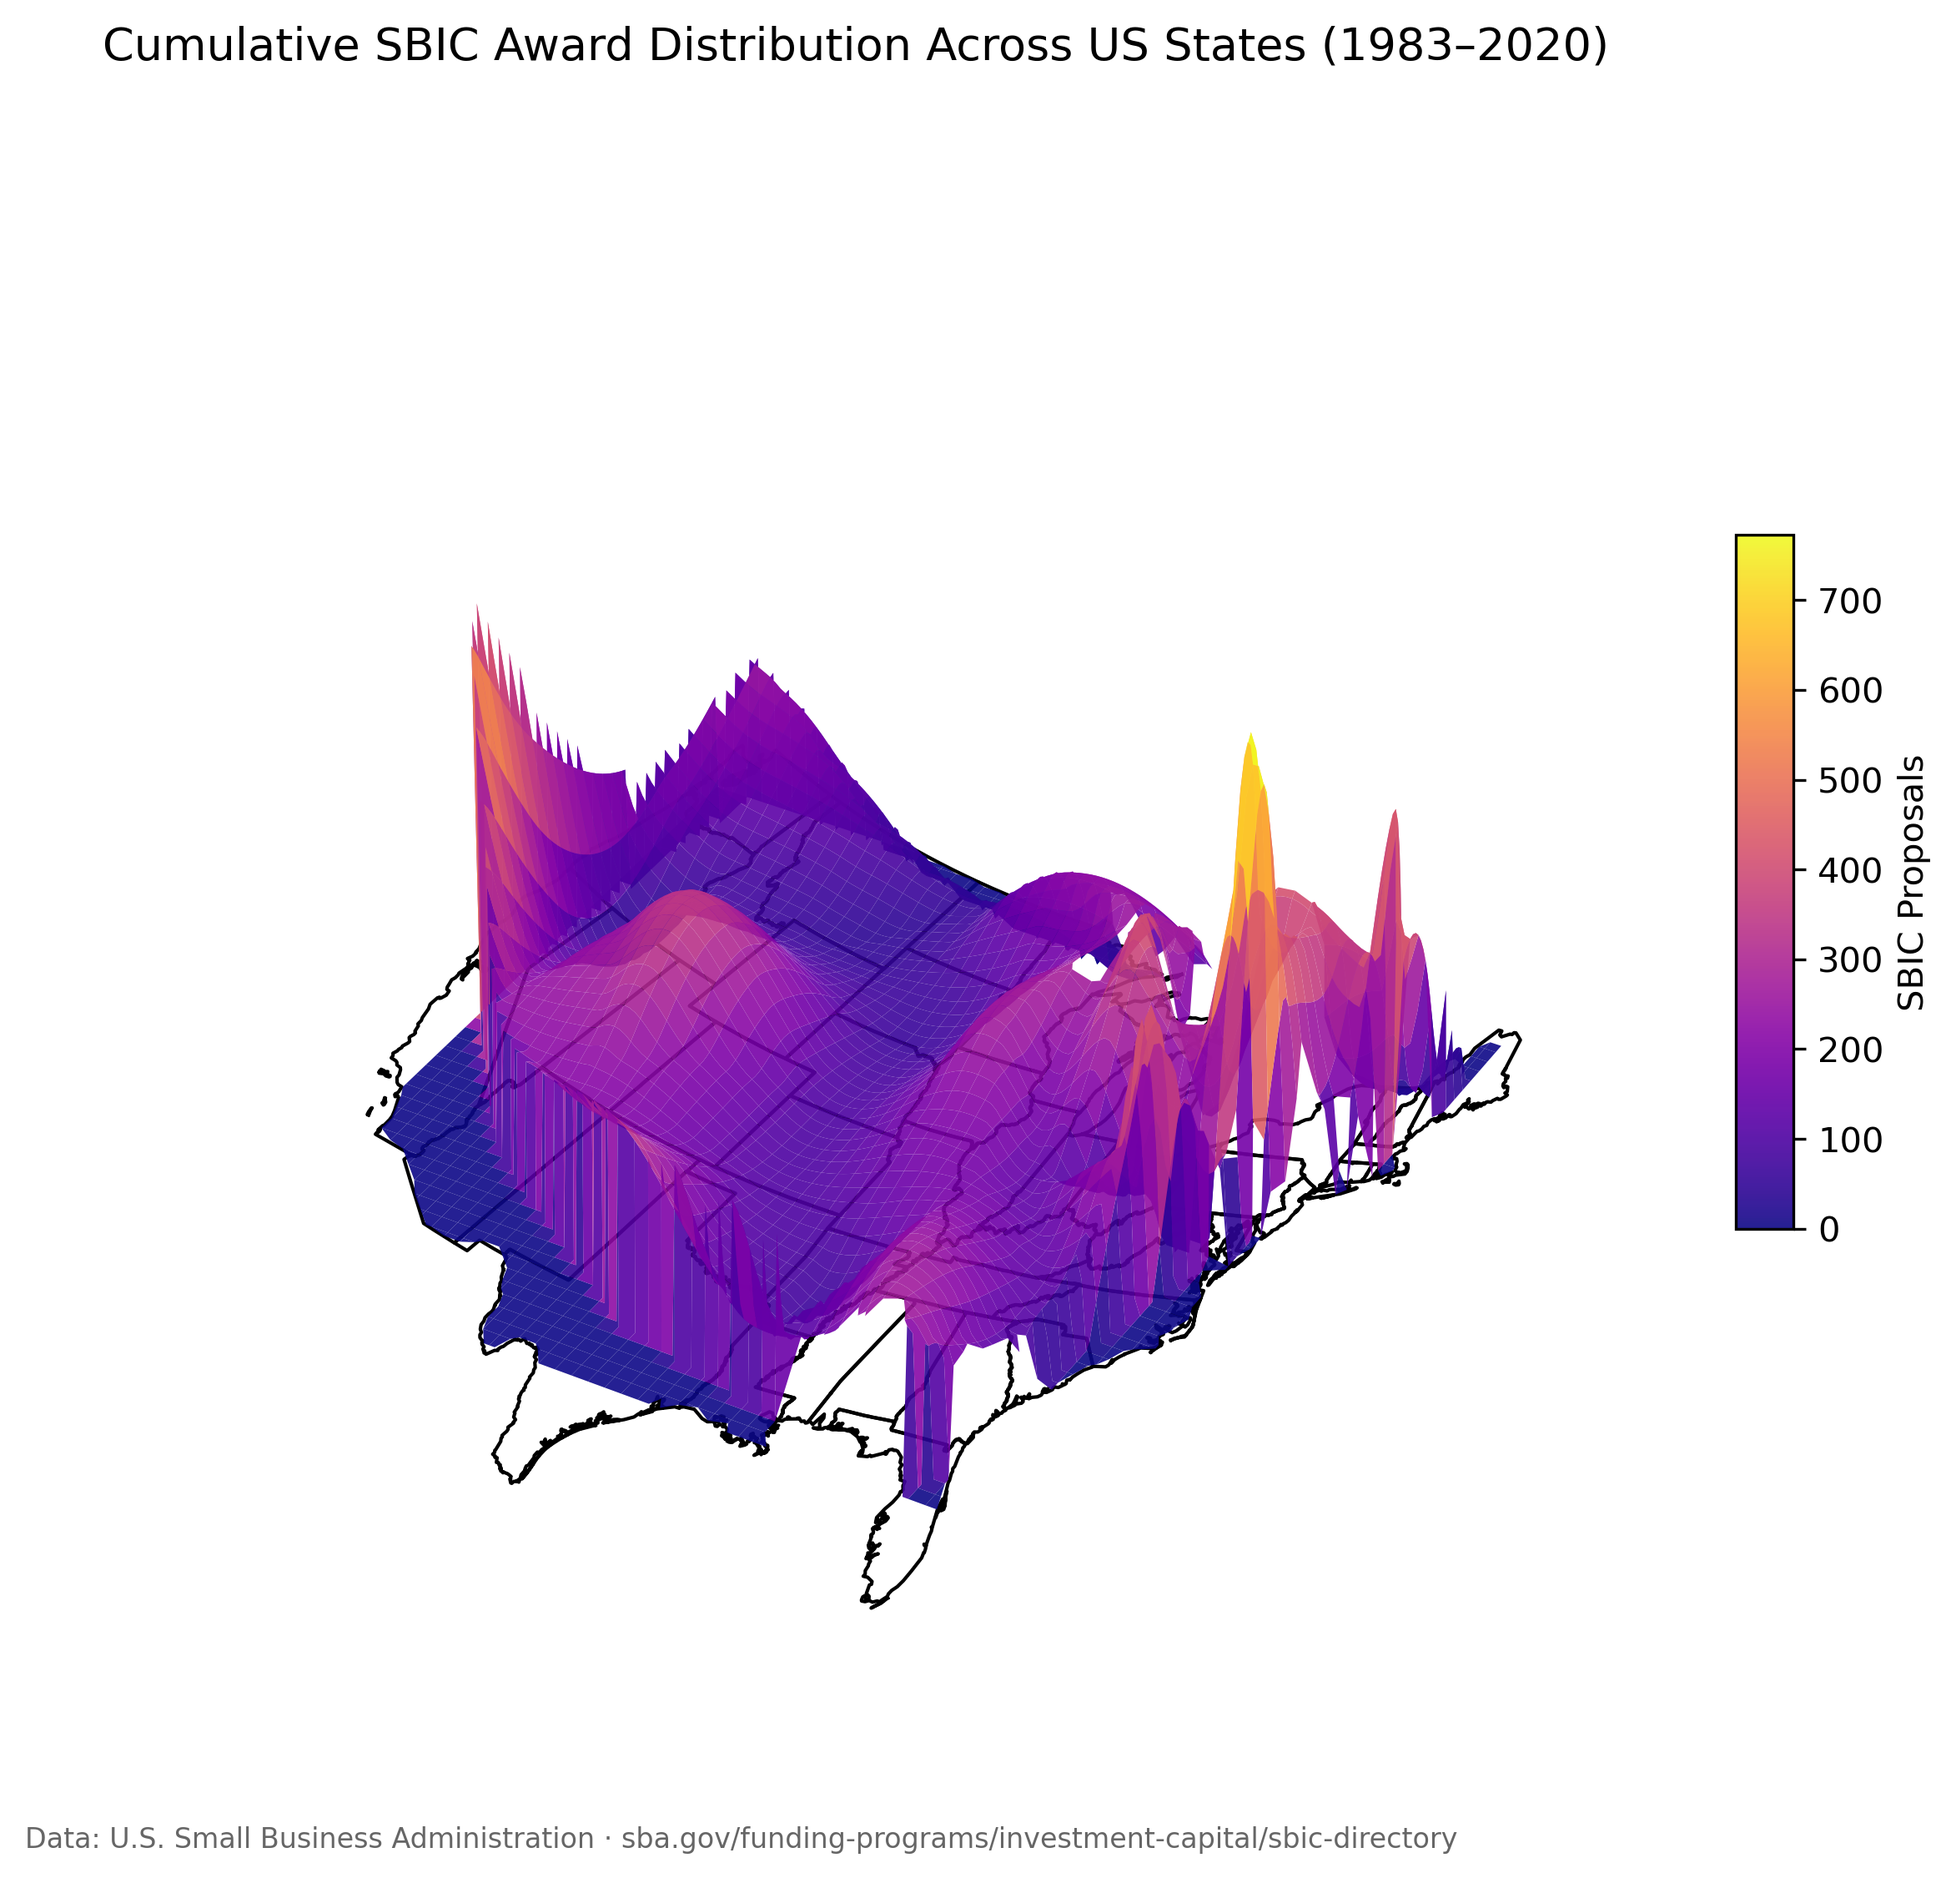
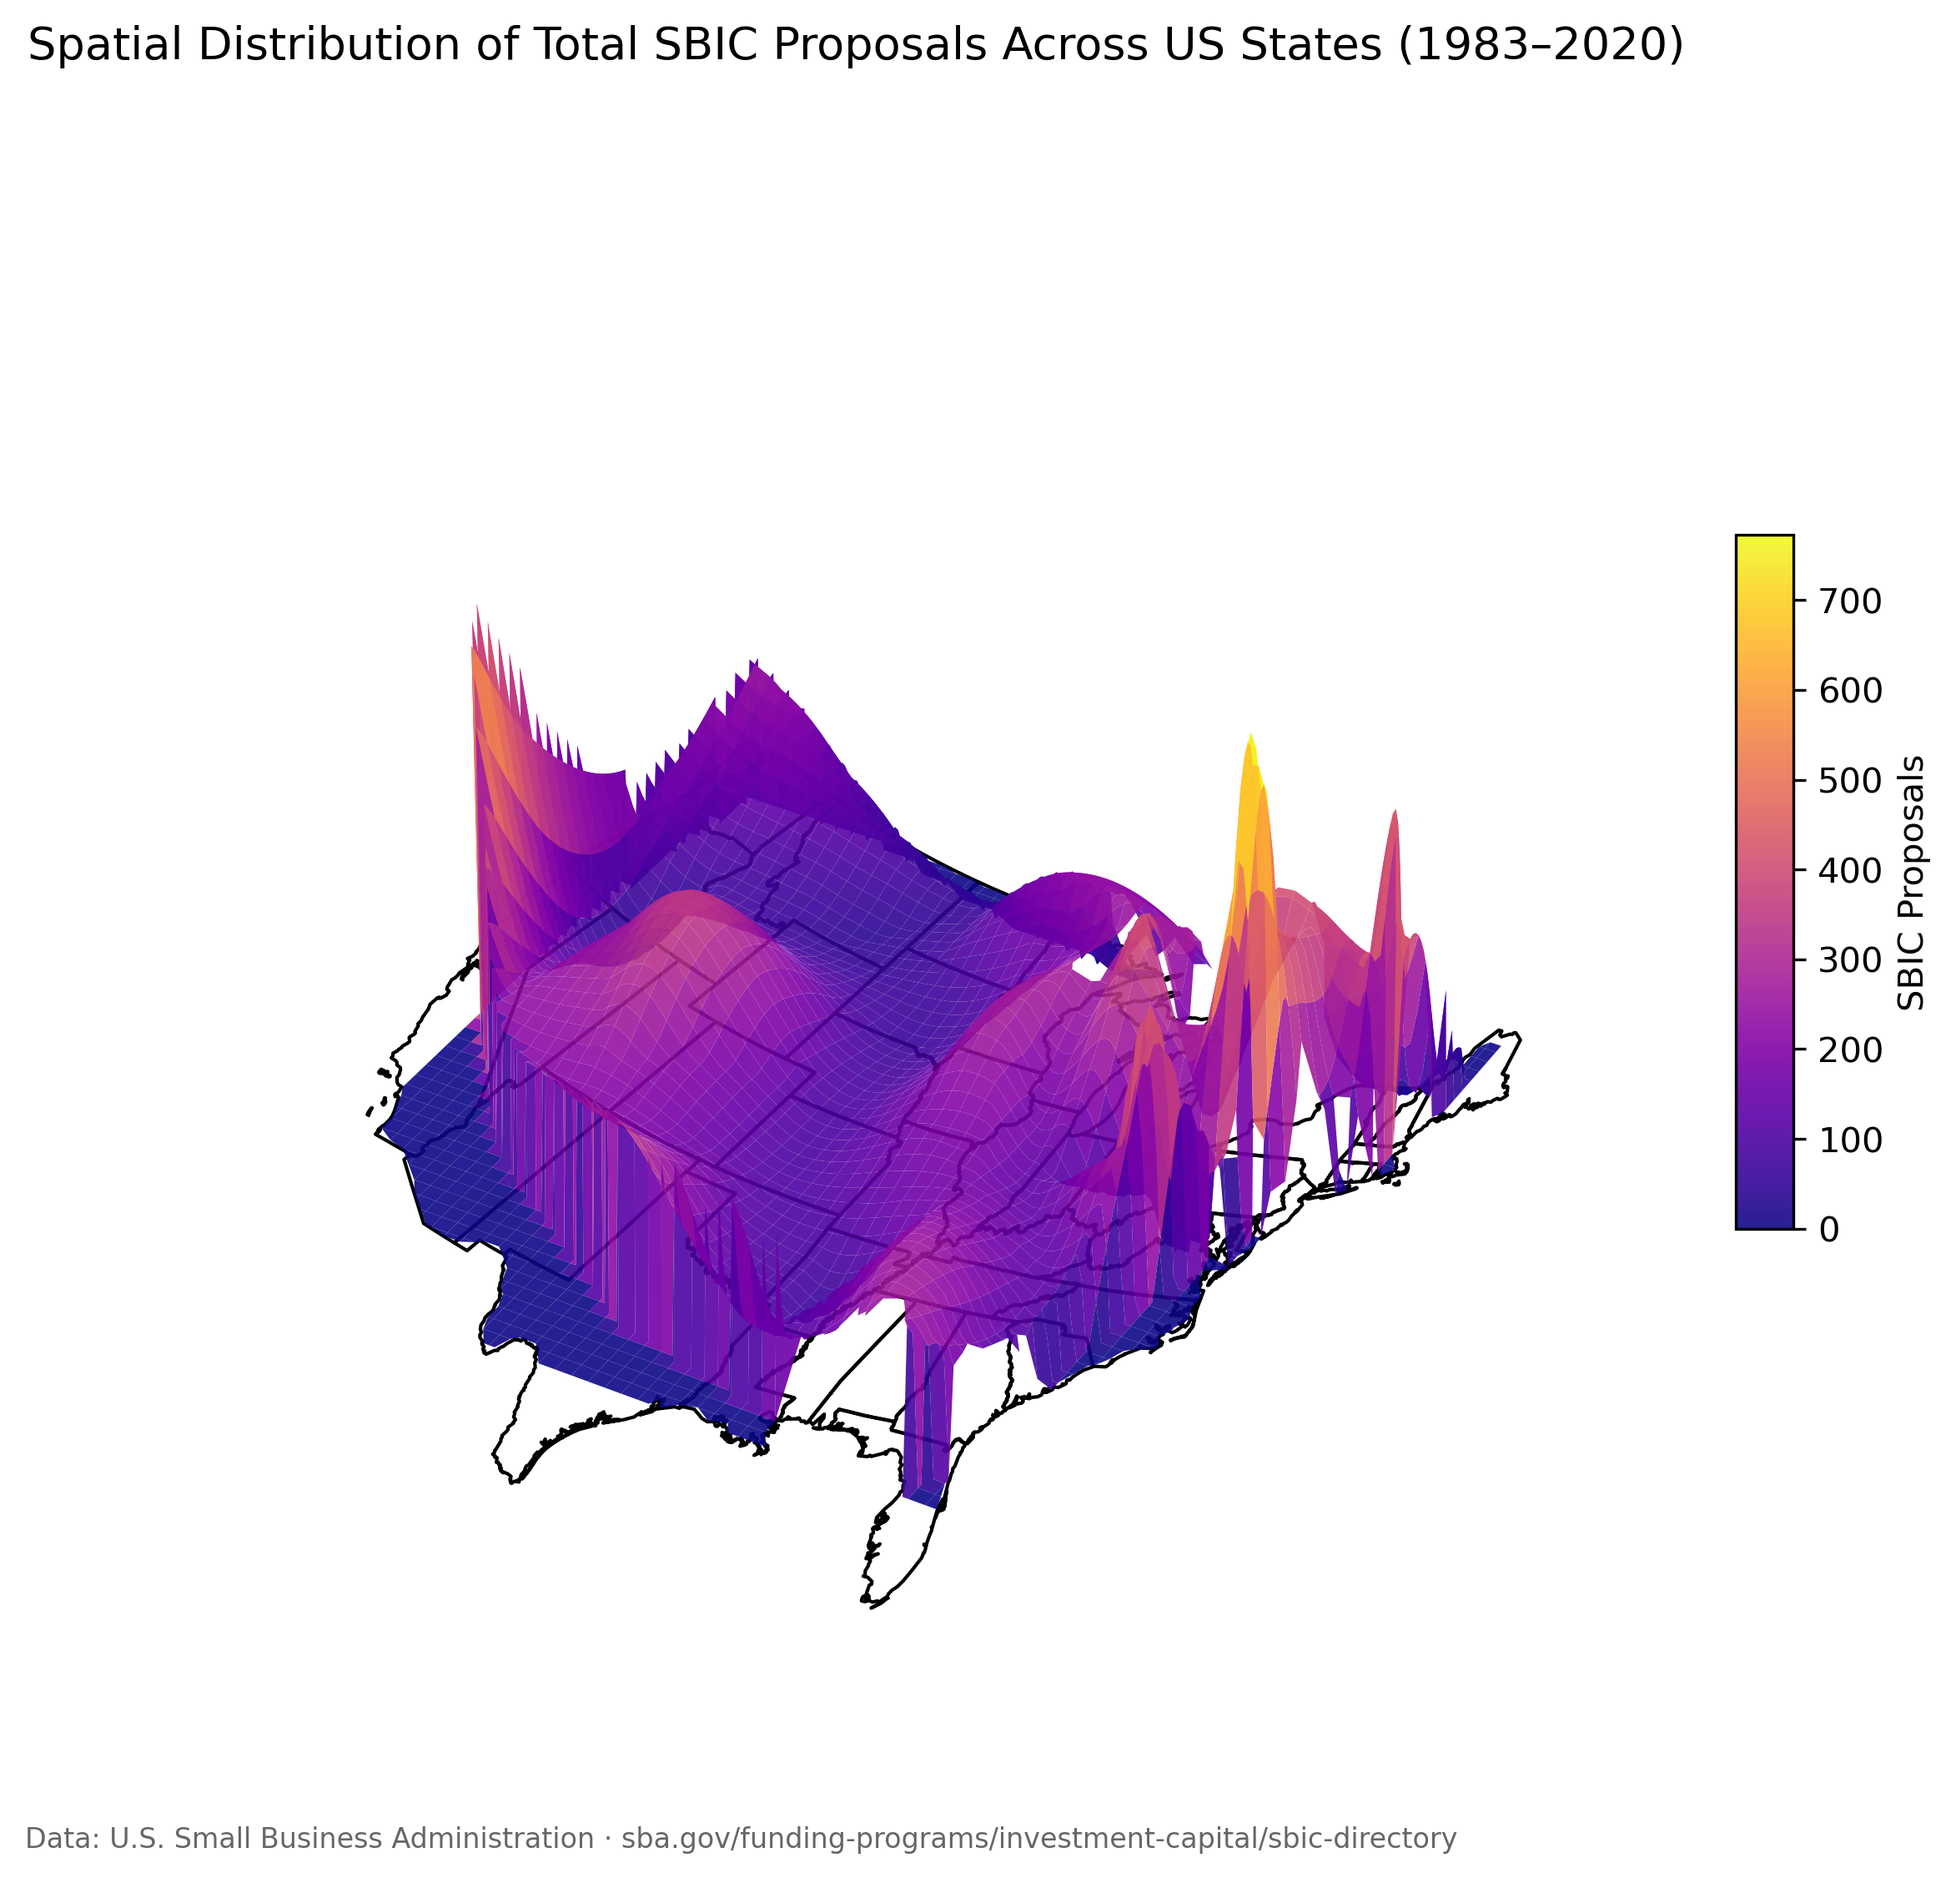
update

Changed region(s): [[0.0, 0.0, 0.8716, 0.0311]]

diff --git a/maps.html b/maps.html
@@ -168,9 +168,9 @@
                 <div class="map-card">
                   <div class="map-card-img"
                        data-modal-title="Total SBIC Proposals by Top-Ranked Startup Cities (1980–2020)"
-                       data-modal-img="Static%20Maps/SBIC/sbic-total-proposals-Startupcities.jpg"
+                       data-modal-img="Static%20Maps/SBIC/sbic-total-proposals-startupcities.jpg"
                        data-modal-project="projects.html#sbic">
-                    <img decoding="async" src="Static%20Maps/thumbs/sbic-total-proposals-Startupcities.jpg" alt="Total SBIC Proposals by Top-Ranked Startup Cities">
+                    <img decoding="async" src="Static%20Maps/thumbs/sbic-total-proposals-startupcities.jpg" alt="Total SBIC Proposals by Top-Ranked Startup Cities">
                     <span class="zoom-hint">⊕</span>
                   </div>
                   <div class="map-card-body">
@@ -183,9 +183,9 @@
                 <div class="map-card">
                   <div class="map-card-img"
                        data-modal-title="Total SBIC Award Amount by Top-Ranked Startup Cities (1980–2020)"
-                       data-modal-img="Static%20Maps/SBIC/sbic-total-award-Startupcities.jpg"
+                       data-modal-img="Static%20Maps/SBIC/sbic-total-award-startupcities.jpg"
                        data-modal-project="projects.html#sbic">
-                    <img decoding="async" src="Static%20Maps/thumbs/sbic-total-award-Startupcities.jpg" alt="Total SBIC Award Amount by Top-Ranked Startup Cities">
+                    <img decoding="async" src="Static%20Maps/thumbs/sbic-total-award-startupcities.jpg" alt="Total SBIC Award Amount by Top-Ranked Startup Cities">
                     <span class="zoom-hint">⊕</span>
                   </div>
                   <div class="map-card-body">
@@ -198,9 +198,9 @@
                 <div class="map-card">
                   <div class="map-card-img"
                        data-modal-title="Average SBIC Award Amount per Proposal by Top-Ranked Startup Cities (1980–2020)"
-                       data-modal-img="Static%20Maps/SBIC/sbic-avg-award-Startupcities.jpg"
+                       data-modal-img="Static%20Maps/SBIC/sbic-avg-award-startupcities.jpg"
                        data-modal-project="projects.html#sbic">
-                    <img decoding="async" src="Static%20Maps/thumbs/sbic-avg-award-Startupcities.jpg" alt="Average SBIC Award Amount per Proposal by Top-Ranked Startup Cities">
+                    <img decoding="async" src="Static%20Maps/thumbs/sbic-avg-award-startupcities.jpg" alt="Average SBIC Award Amount per Proposal by Top-Ranked Startup Cities">
                     <span class="zoom-hint">⊕</span>
                   </div>
                   <div class="map-card-body">
@@ -234,8 +234,8 @@
                     <span class="zoom-hint">⊕</span>
                   </div>
                   <div class="map-card-body">
-                    <div class="map-card-title">Cumulative Proposal Count</div>
-                    <p class="map-card-desc">Cumulative distribution of SBIC proposal counts across U.S. areas from 1980 to 2020.</p>
+                    <div class="map-card-title">Total SBIC Proposals — States</div>
+                    <p class="map-card-desc">Spatial distribution of total SBIC proposals across U.S. states from 1983 to 2020.</p>
                     <a href="projects.html#sbic" class="link-tag">SBIC Project</a>
                   </div>
                 </div>
@@ -249,8 +249,8 @@
                     <span class="zoom-hint">⊕</span>
                   </div>
                   <div class="map-card-body">
-                    <div class="map-card-title">KDE Density — United States</div>
-                    <p class="map-card-desc">Kernel density estimation revealing spatial concentration of SBIC investment activity across the continental United States.</p>
+                    <div class="map-card-title">Kernel Density of SBIC Proposals — States</div>
+                    <p class="map-card-desc">Kernel density estimation highlighting the spatial concentration of SBIC proposals across the United States.</p>
                     <a href="projects.html#sbic" class="link-tag">SBIC Project</a>
                   </div>
                 </div>

diff --git a/projects.html b/projects.html
@@ -243,9 +243,9 @@
                 <div class="thumb-item">
                   <div class="mini-thumb"
                        data-modal-title="Total SBIC Proposals by Top-Ranked Startup Cities (1980–2020)"
-                       data-modal-img="Static%20Maps/SBIC/sbic-total-proposals-Startupcities.jpg"
+                       data-modal-img="Static%20Maps/SBIC/sbic-total-proposals-startupcities.jpg"
                        data-modal-project="projects.html#sbic">
-                    <img src="Static%20Maps/thumbs/sbic-total-proposals-Startupcities.jpg" alt="Total SBIC Proposals by Startup Cities">
+                    <img src="Static%20Maps/thumbs/sbic-total-proposals-startupcities.jpg" alt="Total SBIC Proposals by Startup Cities">
                   </div>
                   <span class="thumb-label">Total Proposals · Startup Cities</span>
                 </div>
@@ -253,9 +253,9 @@
                 <div class="thumb-item">
                   <div class="mini-thumb"
                        data-modal-title="Total SBIC Award Amount by Top-Ranked Startup Cities (1980–2020)"
-                       data-modal-img="Static%20Maps/SBIC/sbic-total-award-Startupcities.jpg"
+                       data-modal-img="Static%20Maps/SBIC/sbic-total-award-startupcities.jpg"
                        data-modal-project="projects.html#sbic">
-                    <img src="Static%20Maps/thumbs/sbic-total-award-Startupcities.jpg" alt="Total SBIC Award Amount by Startup Cities">
+                    <img src="Static%20Maps/thumbs/sbic-total-award-startupcities.jpg" alt="Total SBIC Award Amount by Startup Cities">
                   </div>
                   <span class="thumb-label">Total Award · Startup Cities</span>
                 </div>
@@ -263,9 +263,9 @@
                 <div class="thumb-item">
                   <div class="mini-thumb"
                        data-modal-title="Average SBIC Award Amount per Proposal by Top-Ranked Startup Cities (1980–2020)"
-                       data-modal-img="Static%20Maps/SBIC/sbic-avg-award-Startupcities.jpg"
+                       data-modal-img="Static%20Maps/SBIC/sbic-avg-award-startupcities.jpg"
                        data-modal-project="projects.html#sbic">
-                    <img src="Static%20Maps/thumbs/sbic-avg-award-Startupcities.jpg" alt="Average SBIC Award per Proposal by Startup Cities">
+                    <img src="Static%20Maps/thumbs/sbic-avg-award-startupcities.jpg" alt="Average SBIC Award per Proposal by Startup Cities">
                   </div>
                   <span class="thumb-label">Avg Award · Startup Cities</span>
                 </div>
@@ -287,7 +287,7 @@
                        data-modal-project="projects.html#sbic">
                     <img src="Static%20Maps/thumbs/count_cumulative_map.jpg" alt="Cumulative SBIC Proposal Count Map">
                   </div>
-                  <span class="thumb-label">Cumulative Proposal Count · Metro</span>
+                  <span class="thumb-label">Total Proposals · States</span>
                 </div>
 
                 <div class="thumb-item">
@@ -297,7 +297,7 @@
                        data-modal-project="projects.html#sbic">
                     <img src="Static%20Maps/thumbs/kde_density_map_usa.jpg" alt="KDE Density of SBIC Funding Across the USA">
                   </div>
-                  <span class="thumb-label">KDE Funding Density · Metro</span>
+                  <span class="thumb-label">Kernel Density of Proposals · States</span>
                 </div>
 
               </div>

diff --git a/style.css b/style.css
@@ -651,7 +651,7 @@ button { cursor: pointer; font-family: inherit; }
   aspect-ratio: 3 / 2;
   background: #ccc;
   border: 1px solid #bbb;
-  display: flex;
+  display: block;
   align-items: center;
   justify-content: center;
   font-size: 9px;
@@ -666,7 +666,8 @@ button { cursor: pointer; font-family: inherit; }
 .mini-thumb:hover { filter: brightness(0.85); border-color: #1a1a1a; }
 .mini-thumb img{
   width: 100%;
-  height: auto;
+  height: 100%;
+  object-fit: cover;
   display: block;
 }
 
